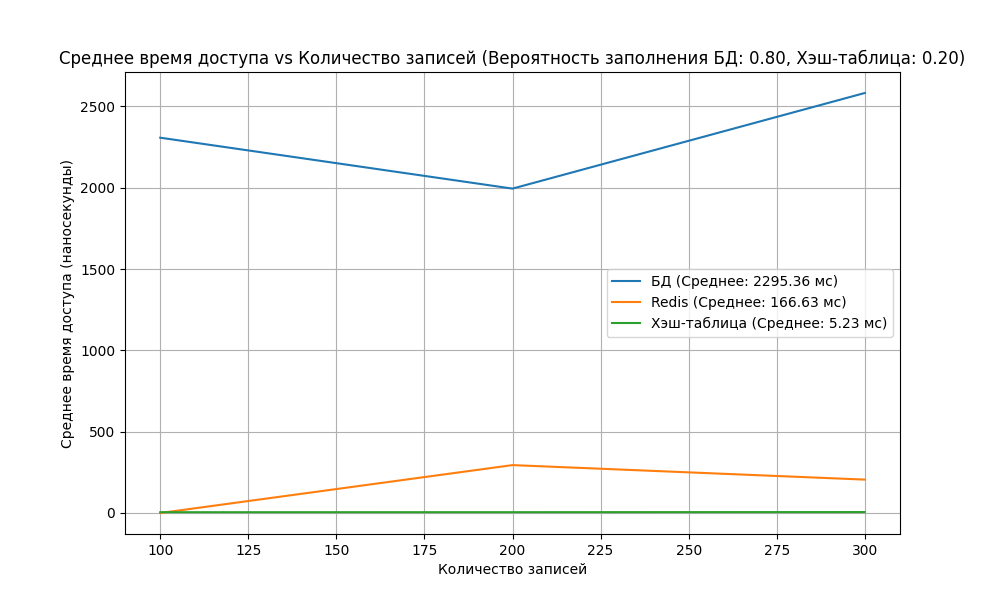
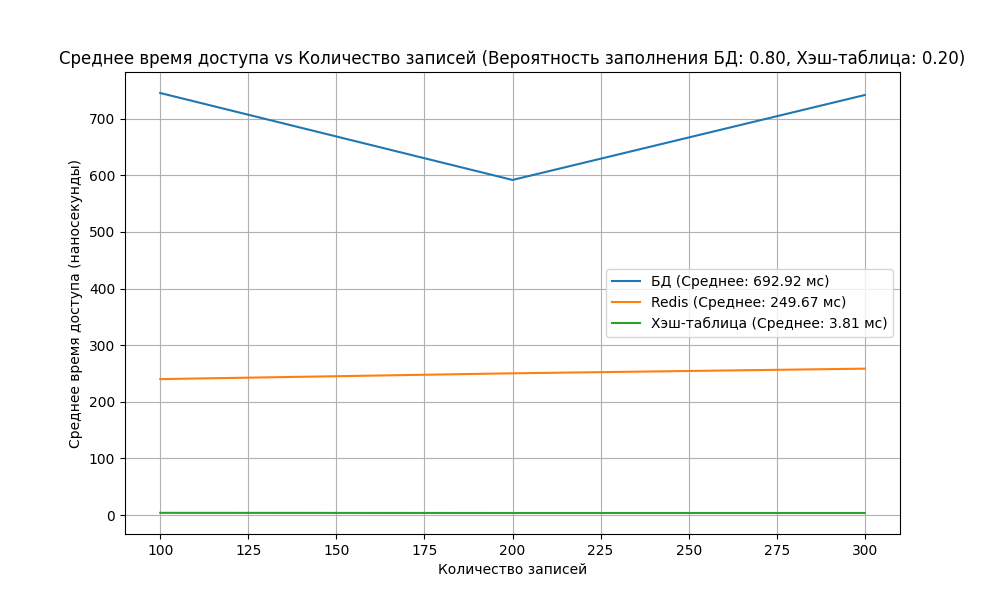
update key-value pair limit

diff --git a/main.py b/main.py
@@ -2,11 +2,9 @@ import os
 import time
 from random import uniform
 from sys import getsizeof
-
 from dotenv import load_dotenv
 from statistics import mean
 import matplotlib.pyplot as plt
-
 from DataStructures import PostgreSQL, Redis
 from common import get_random_data
 
@@ -19,18 +17,16 @@ env = {
     'POSTGRES_DB': os.getenv('POSTGRES_DB'),
     'POSTGRES_HOST': os.getenv('POSTGRES_HOST'),
     'POSTGRES_PORT': os.getenv('POSTGRES_PORT'),
-
     'REDIS_HOST': os.getenv('REDIS_HOST'),
     'REDIS_PORT': os.getenv('REDIS_PORT'),
 }
 
-# Создание объекта подключения в БД
+# Создание объекта подключения к БД
 postgres_conn = PostgreSQL(dbname=env.get('POSTGRES_DB'),
                            user=env.get('POSTGRES_USER'),
                            password=env.get('POSTGRES_PASSWORD'),
                            host=env.get('POSTGRES_HOST'),
-                           port=env.get('POSTGRES_PORT')
-                           )
+                           port=env.get('POSTGRES_PORT'))
 # Создание объекта подключения к Redis
 redis_conn = Redis(host=env.get('REDIS_HOST'),
                    port=env.get('REDIS_PORT'),
@@ -46,7 +42,7 @@ postgres_conn.create_table()
 # Подключение к Redis
 redis_conn.connect()
 
-# Переменные для хранения средних замеров времени
+# Переменные для хранения замеров времени
 avg_db_search_time = {}
 avg_redis_search_time = {}
 avg_ht_search_time = {}
@@ -62,139 +58,106 @@ redis_misses = {}
 ht_misses = {}
 
 # Всего записей занести в структуры
-records_number = [100, 200, 300]
+records_number = [100, 250, 500, 1000, 5000]
 filling_probabilities = [0.5, 0.6, 0.7, 0.8, 0.9]
 
 # Инициализация списков для хранения данных для графиков
 probabilities = []
+
 db_search_times = {filling_probability: [] for filling_probability in filling_probabilities}
 redis_search_times = {filling_probability: [] for filling_probability in filling_probabilities}
 ht_search_times = {filling_probability: [] for filling_probability in filling_probabilities}
+
 db_misses_data = {filling_probability: [] for filling_probability in filling_probabilities}
 redis_misses_data = {filling_probability: [] for filling_probability in filling_probabilities}
 ht_misses_data = {filling_probability: [] for filling_probability in filling_probabilities}
 
-
 # Заполнение структур данных разными объемами и вероятностными распределениями
 for filling_probability in filling_probabilities:
-    # Append the filling probability to the probabilities list
     probabilities.append(filling_probability)
     for record_number in records_number:
-        # Rest of the code remains unchanged
-        # Инициализация временных списков
         db_time = []
         redis_time = []
         hash_table_time = []
 
-        # Инициализация списков для памяти
         db_memory = []
         redis_memory = []
         ht_memory = []
 
-        # Инициализация счетчиков промахов
         db_misses_counter = 0
         redis_misses_counter = 0
         ht_misses_counter = 0
 
         print(f'Заполнение структур. Количество элементов: {record_number}, Вероятность заполнения БД: {filling_probability}')
         for i in range(record_number):
-            random_data = get_random_data(record_number * 100)
-
+            random_data = get_random_data(record_number)
             key = random_data["key"]
             value = random_data["value"]
 
-            # Добавление записей в БД с вероятностью filling_probabilities
-            # и в хэш-таблицу с вероятностью (1 - filling_probabilities)
             if round(uniform(0, 1), 2) < filling_probability:
                 if not postgres_conn.get_data(key):
-                    start = time.monotonic()
                     postgres_conn.set_data(key, value)
-                    end = time.monotonic()
-                    db_time.append(end - start)
                     db_memory.append(getsizeof(value))
+                    if round(uniform(0, 1), 2) > filling_probability:
+                        if not redis_conn.get_data(key):
+                            redis_conn.set_data(key, value)
+                            redis_memory.append(getsizeof(value))
             else:
                 if key not in hash_table:
-                    start = time.monotonic()
                     hash_table.update({key: value})
-                    end = time.monotonic()
-                    hash_table_time.append(end - start)
                     ht_memory.append(getsizeof(value))
 
         print('Данные внесены. Поиск данных...')
-        # Поиск данных в заполненных структурах
         for i in range(record_number):
-            random_data = get_random_data(record_number * 100)
+            random_data = get_random_data(record_number)
             key = random_data["key"]
             value = random_data["value"]
 
-            # Поиск в хэш-таблице
             if key in hash_table:
                 start = time.monotonic()
                 value = hash_table.get(key)
                 end = time.monotonic()
-                hash_table_time.append(end - start)  # Обновление временного списка
+                hash_table_time.append(end - start)
             else:
-                ht_misses_counter += 1  # Увеличение счетчика промахов для хэш-таблицы
+                ht_misses_counter += 1
+                hash_table.update({key: value})
 
-            # Поиск в Redis, если не найдено -> поиск в БД, если не найдено -> запись данных в БД
             if not redis_conn.get_data(key):
-                redis_misses_counter += 1  # Увеличение счетчика промахов для Redis
-                if postgres_conn.get_data(key):
-                    start = time.monotonic()
-                    db_data = postgres_conn.get_data(key)
+                redis_misses_counter += 1
+                start = time.monotonic()
+                db_data = postgres_conn.get_data(key)
+                if db_data:
                     end = time.monotonic()
                     db_time.append(end - start)
                     db_memory.append(getsizeof(db_data['value']))
                     redis_conn.set_data(db_data['key'], db_data['value'])
                 else:
-                    db_misses_counter += 1  # Увеличение счетчика промахов для БД
-                    start = time.monotonic()
+                    db_misses_counter += 1
                     postgres_conn.set_data(key, value)
-                    end = time.monotonic()
-                    db_time.append(end - start)
                     db_memory.append(getsizeof(value))
                     redis_conn.set_data(key, value)
-            else:  # Добавление времени доступа для Redis
+            else:
                 start = time.monotonic()
                 data = redis_conn.get_data(key)
                 end = time.monotonic()
                 redis_time.append(end - start)
                 redis_memory.append(getsizeof(data))
 
-        # Расчет средних значений времени
         avg_db_search_time = mean(db_time) if db_time else 0
         avg_redis_search_time = mean(redis_time) if redis_time else 0
-        avg_ht_search_time = mean(hash_table_time)
+        avg_ht_search_time = mean(hash_table_time) if redis_time else 0
 
-        # Добавление значений в соответствующие списки
         db_search_times[filling_probability].append(avg_db_search_time)
         redis_search_times[filling_probability].append(avg_redis_search_time)
         ht_search_times[filling_probability].append(avg_ht_search_time)
 
-        # Замеры памяти
         db_memory_usage[(record_number, filling_probability)] = sum(db_memory)
         redis_memory_usage[(record_number, filling_probability)] = sum(redis_memory)
         ht_memory_usage[(record_number, filling_probability)] = sum(ht_memory)
 
-        # Сохранение количества промахов
         db_misses_data[filling_probability].append(db_misses_counter)
         redis_misses_data[filling_probability].append(redis_misses_counter)
         ht_misses_data[filling_probability].append(ht_misses_counter)
-
-        # Вывод результатов
-        # print(f'\nРезультаты при вероятности добавления новой записи в БД: {filling_probability}')
-        # print(f'Среднее время поиска в БД: {avg_db_search_time:.10f} сек')
-        # print(f'Среднее время поиска в Redis: {avg_redis_search_time:.10f} сек')
-        # print(f'Среднее время поиска в хэш-таблице: {avg_ht_search_time:.10f} сек')
-        # print(f'Время поиска а текущей итерации: {hash_table_time} сек')
-        # print(f'Средние значения времени поиска на разных итерациях: {ht_search_times} сек')
-        #
-        # print(f'Объем памяти БД: {db_memory_usage[(record_number, filling_probability)]} байт')
-        # print(f'Объем памяти Redis: {redis_memory_usage[(record_number, filling_probability)]} байт')
-        # print(f'Объем памяти хэш-таблицы: {ht_memory_usage[(record_number, filling_probability)]} байт')
-        # print(f'Количество промахов в БД: {db_misses_counter}')
-        # print(f'Количество промахов в Redis: {redis_misses_counter}')
-        # print(f'Количество промахов в хэш-таблице: {ht_misses_counter}\n')
 
         print('\nОчистка данных...')
         hash_table.clear()
@@ -202,31 +165,26 @@ for filling_probability in filling_probabilities:
         redis_conn.clear_data()
         print('Все данные удалены\n')
 
-# Закрытие соединения с БД
 postgres_conn.close()
 redis_conn.close()
-
-# Сохранение графиков в файлы
 
 # Графики для времени доступа
 for filling_probability in filling_probabilities:
     plt.figure(figsize=(10, 6))
     x = records_number
 
-    # Получаем средние значения времени поиска для каждой структуры данных
     avg_db_search_time = mean(db_search_times[filling_probability])
     avg_redis_search_time = mean(redis_search_times[filling_probability])
     avg_ht_search_time = mean(ht_search_times[filling_probability])
 
     plt.plot(x, [t * 1e6 for t in db_search_times[filling_probability]],
-             label=f'БД (Среднее: {avg_db_search_time * 1e6:.2f} мс)')  # Перевод в наносекунды
+             label=f'БД (Среднее: {avg_db_search_time * 1e6:.2f} мс)')
     plt.plot(x, [t * 1e6 for t in redis_search_times[filling_probability]],
-             label=f'Redis (Среднее: {avg_redis_search_time * 1e6:.2f} мс)')  # Перевод в наносекунды
+             label=f'Redis (Среднее: {avg_redis_search_time * 1e6:.2f} мс)')
     plt.plot(x, [t * 1e6 for t in ht_search_times[filling_probability]],
-             label=f'Хэш-таблица (Среднее: {avg_ht_search_time * 1e6:.2f} мс)')  # Перевод в наносекунды
+             label=f'Хэш-таблица (Среднее: {avg_ht_search_time * 1e6:.2f} мс)')
 
-    plt.title(
-        f'Среднее время доступа vs Количество записей (Вероятность заполнения БД: {f"{filling_probability:.2f}"}, Хэш-таблица: {f"{1 - filling_probability:.2f}"})')
+    plt.title(f'Среднее время доступа vs Количество записей (Вероятность заполнения БД: {f"{filling_probability:.2f}"}, Хэш-таблица: {f"{1 - filling_probability:.2f}"})')
     plt.xlabel('Количество записей')
     plt.ylabel('Среднее время доступа (наносекунды)')
     plt.legend()
@@ -239,21 +197,14 @@ for filling_probability in filling_probabilities:
     plt.figure(figsize=(10, 6))
     x = records_number
 
-    # Получаем средние значения количества промахов для каждой структуры данных
-    avg_db_misses = mean(db_misses_data[filling_probability])
-    avg_redis_misses = mean(redis_misses_data[filling_probability])
-    avg_ht_misses = mean(ht_misses_data[filling_probability])
+    plt.plot(x, db_misses_data[filling_probability], label='Промахи БД')
+    plt.plot(x, redis_misses_data[filling_probability], label='Промахи Redis')
+    plt.plot(x, ht_misses_data[filling_probability], label='Промахи хэш-таблицы')
 
-    # Построение графиков для каждой структуры данных
-    plt.plot(x, db_misses_data[filling_probability], label=f'БД (Среднее: {avg_db_misses:.2f})')
-    plt.plot(x, redis_misses_data[filling_probability], label=f'Redis (Среднее: {avg_redis_misses:.2f})')
-    plt.plot(x, ht_misses_data[filling_probability], label=f'Хэш-таблица (Среднее: {avg_ht_misses:.2f})')
-
-    plt.title(f'Количество промахов vs Количество записей (Вероятность заполнения БД: {f"{filling_probability:.2f}"})')
+    plt.title(f'Количество промахов vs Количество записей (Вероятность заполнения БД: {f"{filling_probability:.2f}"}, Хэш-таблица: {f"{1 - filling_probability:.2f}"})')
     plt.xlabel('Количество записей')
     plt.ylabel('Количество промахов')
     plt.legend()
     plt.grid(True)
     plt.savefig(f'app_results/промахи_vs_количество_записей_заполнение_{f"{filling_probability:.2f}"}.png')
     plt.close()
-

diff --git a/common.py b/common.py
@@ -3,7 +3,7 @@ import random
 
 def get_random_data(limit):
     key = random.randint(0, limit)
-    value = random.randint(0, limit)
+    value = random.randint(0, limit * 100)
 
     return {'key': key,
             'value': value}
